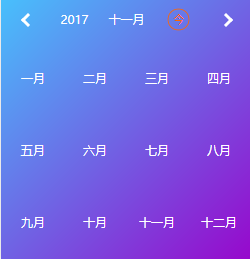
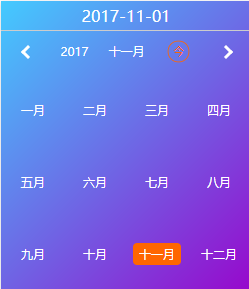
all

diff --git a/src/cal_body.js b/src/cal_body.js
@@ -70,7 +70,6 @@ class Header extends Component {
             }
             curDate.day = day % 100;
             const char = this.props.char;
-            console.log(`${curDate.year}${char}${curDate.month}${char}${curDate.day}`)
             this.props.getDate(`${curDate.year}${char}${curDate.month}${char}${curDate.day}`, curDate);
             this.setState({
                 curDate
@@ -123,7 +122,6 @@ class Header extends Component {
     }
     render() {
         const {monthDaysList, curDate, chooseType} = this.state
-        console.log(this.weekName)
         let td = [];
         return (
             <div className="calendar-body">
@@ -141,10 +139,11 @@ class Header extends Component {
                         {
                             chooseType === 'year' ? 
                             this.yearList.map((rec, idx) => {
+                                const active = curDate.year === rec ? 'active' : 'o'
                                 if((idx + 1) % 4){
-                                    td.push(<td key={idx}><div onClick={this.chooseYearMonth(rec, 'year')}>{rec}</div></td>)
+                                    td.push(<td key={idx}><div onClick={this.chooseYearMonth(rec, 'year')} className={active}>{rec}</div></td>)
                                 }else{
-                                    td.push(<td key={idx}><div onClick={this.chooseYearMonth(rec, 'year')}>{rec}</div></td>)
+                                    td.push(<td key={idx}><div onClick={this.chooseYearMonth(rec, 'year')} className={active}>{rec}</div></td>)
                                     let _td = td
                                     td = []
                                     return <tr key={idx} className="yearMonthList">{_td}</tr>
@@ -153,10 +152,11 @@ class Header extends Component {
                             })
                             : chooseType === 'month' ?
                             this.monthName.map((rec, idx) => {
+                                const active = rec === this.monthName[curDate.month - 1] ? 'active' : 'o'
                                 if((idx + 1) % 4){
-                                    td.push(<td key={idx}><div onClick={this.chooseYearMonth(idx + 1, 'month')}>{rec}</div></td>)
+                                    td.push(<td key={idx}><div onClick={this.chooseYearMonth(idx + 1, 'month')} className={active}>{rec}</div></td>)
                                 }else{
-                                    td.push(<td key={idx}><div onClick={this.chooseYearMonth(idx + 1, 'month')}>{rec}</div></td>)
+                                    td.push(<td key={idx}><div onClick={this.chooseYearMonth(idx + 1, 'month')} className={active}>{rec}</div></td>)
                                     let _td = td
                                     td = []
                                     return <tr key={idx} className="yearMonthList">{_td}</tr>

diff --git a/src/cal_header.js b/src/cal_header.js
@@ -5,7 +5,7 @@ class Header extends Component {
 	constructor(props){
 		super(props)
 		this.state = {
-            // showType: ''
+            selectedDate: props.selectedDate
         }
         this.monthName = props.monthName || ['一月', '二月', '三月', '四月', '五月', '六月', '七月', '八月', '九月', '十月', '十一月', '十二月']
 	}
@@ -13,7 +13,7 @@ class Header extends Component {
         return () => {
             const {year, month, day} = this.props.selectedDate
             const type = this.showType
-            let pMonth, pYear
+            let pMonth, pYear, pDay
             if(! type){
                 if(flag === 1 && month === 12){
                     pMonth = 1
@@ -27,12 +27,13 @@ class Header extends Component {
             }
             if(!flag){
                 const date = new Date()
-                pMonth = date.getMonth()
-                pMonth += 1
+                pMonth = date.getMonth() + 1
+                pDay = date.getDate()
                 pYear  = date.getFullYear()
+                this.props.monthYear()
             }
-            const _flag = type === 'year' ? flag : '';
-            this.props.UpdateDate({month: pMonth || month, year: pYear || year, day}, _flag)
+            const _flag = type === 'year' ? flag : ''
+            this.props.UpdateDate({month: pMonth || month, year: pYear || year, day: pDay || day}, _flag)
         }
     }
     onChooseDate = type => {
@@ -46,7 +47,7 @@ class Header extends Component {
         }
     } 
     render() {
-        const {selectedDate} = this.props
+        const {selectedDate} = this.state
         const type = this.state.showType
         return (
             <div className="calendar-header">

diff --git a/src/App.js b/src/App.js
@@ -32,6 +32,9 @@ class App extends Component {
 		curDate.year  = date.year
 		curDate.month = date.month
 		curDate.flag = flag
+		curDate.day = date.day
+		const char = this.props.connector
+		this.props.onChange(`${curDate.year}${char}${curDate.month}${char}${curDate.day}`, date)
 		this.setState({ curDate })
 	}
 
@@ -56,7 +59,8 @@ class App extends Component {
 					selectedDate={curDate} 
 					UpdateDate={this.UpdateDate} 
 					chooseType={this.chooseType}
-					monthName={this.monthName}/>
+					monthName={this.monthName}
+					monthYear={this.chooseYearMonth}/>
 				<Body 		
 					selectedDate={curDate}  
 					chooseType={chooseType} 
